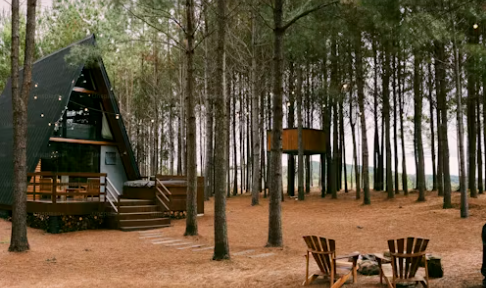
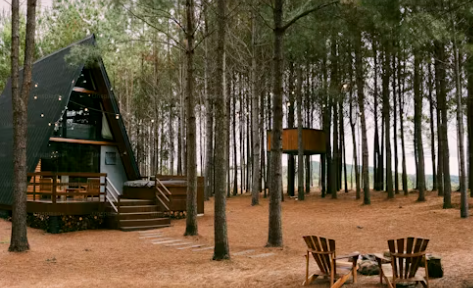
Lisätty kuva etusivulle.

diff --git a/Etusivu.html b/Etusivu.html
@@ -66,22 +66,28 @@
         <p>Lorem ipsum dolor sit, amet consectetur adipisicing elit. Commodi enim minus perspiciatis inventore quam nemo
           qui odit rerum labore atque repudiandae pariatur quas maiores sit facere aperiam, delectus asperiores
           voluptatem!</p>
-        <p>Pariatur nostrum praesentium vitae provident quos laborum voluptatibus distinctio aliquid? Adipisci corrupti
-          pariatur beatae incidunt consequatur ullam itaque atque distinctio facilis ducimus rem temporibus, inventore
-          necessitatibus laudantium officia provident quia?</p>
-        <p>Lorem ipsum dolor sit amet consectetur adipisicing elit. Repellat repellendus quam laborum amet modi,
-          perferendis obcaecati molestias facilis, cum atque culpa voluptatem facere delectus hic ex voluptatibus maxime
-          praesentium reprehenderit.</p>
+          <img src="Kuva etusivulle.png" alt="Mökki ja piha">
+      
       </div>
       <div class="col-md">
         <h3>Toimintaideamme</h3>
         <p>Lorem ipsum, dolor sit amet consectetur adipisicing elit. Repellat ipsum dolores ab quia tempore fugiat aut
           sunt similique nam culpa nesciunt voluptates delectus, quibusdam inventore maiores qui reiciendis praesentium
           ducimus.</p>
-        <h3>Sijainti</h3>
-        <p>Lorem ipsum dolor sit amet consectetur adipisicing elit. Dolorem, nemo cupiditate fuga quis quam id? Iste,
-          animi? Veniam, hic accusantium consequuntur quaerat quo voluptatum at magnam mollitia maiores ipsam facere.
-        </p>
+          <p>Pariatur nostrum praesentium vitae provident quos laborum voluptatibus distinctio aliquid? Adipisci corrupti
+            pariatur beatae incidunt consequatur ullam itaque atque distinctio facilis ducimus rem temporibus, inventore
+            necessitatibus laudantium officia provident quia?</p>
+  
+
+          <h3>Sijainti</h3>
+          <p>Lorem ipsum dolor sit amet consectetur adipisicing elit. Dolorem, nemo cupiditate fuga quis quam id? Iste,
+            animi? Veniam, hic accusantium consequuntur quaerat quo voluptatum at magnam mollitia maiores ipsam facere.
+          </p>
+          <p>Lorem ipsum dolor sit amet consectetur adipisicing elit. Repellat repellendus quam laborum amet modi,
+            perferendis obcaecati molestias facilis, cum atque culpa.</p>
+  
+        
+      
       </div>
 
     </div>
